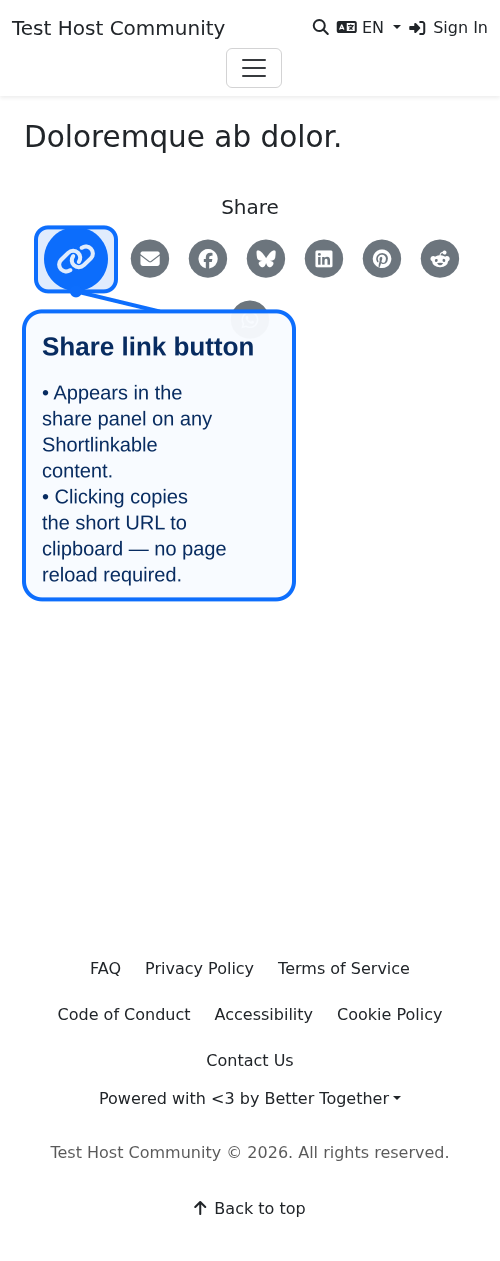
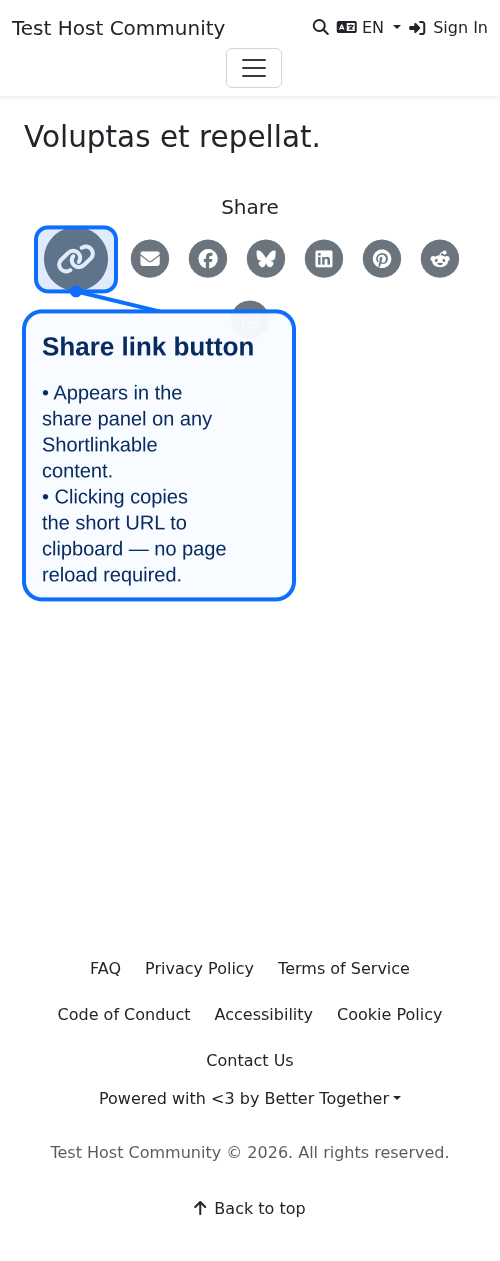
fix(share-button): short link button shows primary colour on hover only
The .share-short-link rule was setting i.bg to var(--bs-primary)
unconditionally, making the circle permanently blue. Moved the colour
override to :hover/:focus to match the behaviour of all other share
platform buttons (secondary colour at rest, platform colour on hover).

Changed region(s): [[0.03, 0.0928, 0.66, 0.1237], [0.09, 0.1546, 0.24, 0.2474]]

diff --git a/app/assets/stylesheets/better_together/share.scss b/app/assets/stylesheets/better_together/share.scss
@@ -99,5 +99,6 @@ button {
     transform: scale(1.05);
   }
 
-  &.share-short-link i.bg { color: var(--bs-primary); }
+  &.share-short-link:hover i.bg,
+  &.share-short-link:focus i.bg { color: var(--bs-primary); }
 }